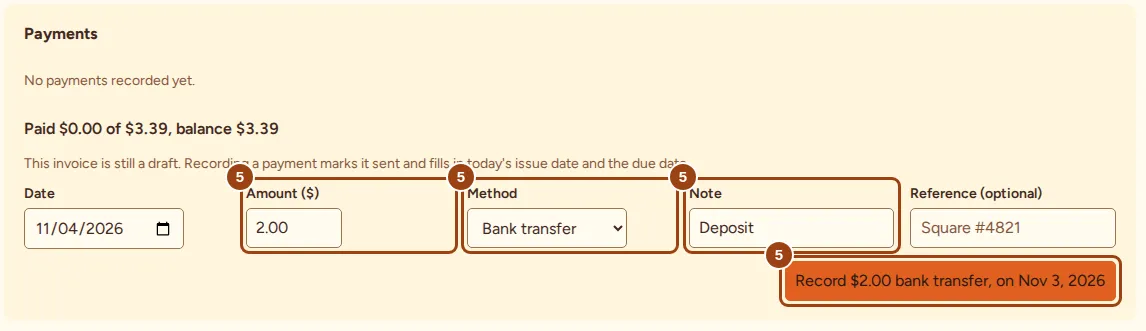
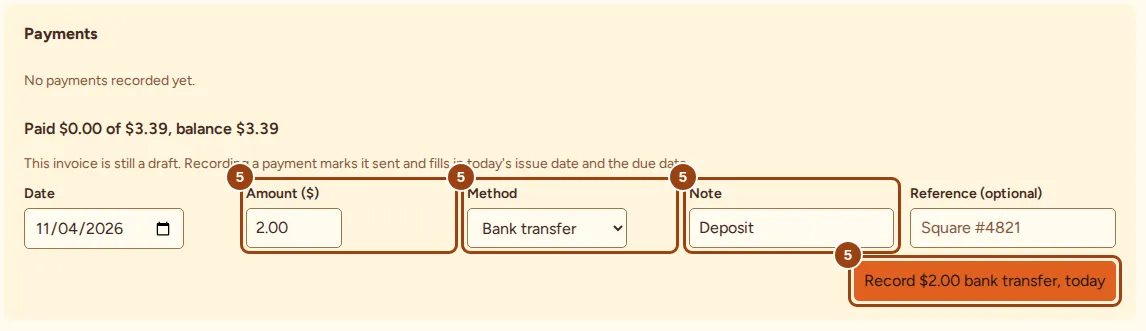
fix(guide-shots): show fixed dates in date inputs and settle captures; regenerate images

Changed region(s): [[0.6414, 0.7251, 0.9773, 0.9366]]

diff --git a/scripts/lib/guide-captures.ts b/scripts/lib/guide-captures.ts
@@ -208,15 +208,9 @@ async function invoiceTopic(s: Shooter, env: Env): Promise<void> {
   await create.click();
   const save = page.getByRole("button", { name: "Save", exact: true });
   await save.waitFor();
-  // Dates default to the day you run the script; show fixed ones.
-  await page.getByLabel("Issue date").fill("2026-11-04");
-  await page.getByLabel("Due date").fill("2026-12-04");
   await s.shot({ key: "inv-draft", targets: [{ loc: fieldOf(page.getByLabel("Issue date")), n: 3 }, { loc: fieldOf(page.getByLabel("Due date")), n: 3 }, { loc: save, n: 3 }], region: [page.getByRole("heading", { name: /^Invoice / }), save] });
-  await save.click();
-  await page.getByText(/saved/i).first().waitFor({ timeout: 10_000 }).catch(() => {});
   const sendBtns = [page.getByRole("button", { name: "Mark sent" }), page.getByRole("button", { name: "Email to client" }), page.getByRole("button", { name: "Print", exact: true })];
   await s.shot({ key: "inv-send", targets: sendBtns.map((loc) => ({ loc, n: 4 })), region: sendBtns });
-  await page.getByLabel("Date", { exact: true }).fill("2026-11-04");
   await page.getByLabel("Amount ($)").fill("2.00");
   await page.getByLabel("Method").selectOption({ label: "Bank transfer" });
   await page.getByLabel("Note", { exact: true }).fill("Deposit");
@@ -316,7 +310,7 @@ async function storefrontTopic(s: Shooter, env: Env): Promise<void> {
   await s.shot({ key: "shop-hero", targets: [{ loc: fieldOf(alt), n: 5 }], region: [card.getByText("Hero image", { exact: true }).first(), card.getByRole("button", { name: "Remove hero image" })] });
   const accent = card.getByLabel("Accent color", { exact: true });
   await accent.fill("#0f746c");
-  await s.shot({ key: "shop-accent", targets: [{ loc: fieldOf(accent), n: 6 }], region: [card.getByText("Accent color", { exact: true }).first(), card.getByLabel("Accent color preview")] });
+  await s.shot({ key: "shop-accent", targets: [{ loc: fieldOf(accent), n: 6 }], region: [card.getByText("Accent color", { exact: true }).first(), card.getByLabel("Accent color preview"), card.getByText(/^Both variants pass/)] });
   await page.getByRole("button", { name: "Save changes" }).click();
   await page.getByText(/saved/i).first().waitFor({ timeout: 10_000 }).catch(() => {});
   const pub = await env.browser.newContext({ viewport: { width: 1440, height: 1500 }, reducedMotion: "reduce", colorScheme: "light" });

diff --git a/scripts/lib/guide-shooter.ts b/scripts/lib/guide-shooter.ts
@@ -42,6 +42,18 @@ export async function freezeDates(page: Page): Promise<void> {
     // A node already rewritten (and not changed by the app since) keeps its fixed text: running twice must not shift it again.
     const w = window as unknown as { __guideFrozen?: WeakMap<Text, string> };
     const done = (w.__guideFrozen ??= new WeakMap());
+    // Date inputs show a fixed day the same way. Only the displayed value changes (no input event), so the app still
+    // believes it is the real day: "Record $2.00 bank transfer, today" stays true.
+    const inputs = (w as unknown as { __guideInputs?: WeakMap<HTMLInputElement, string> });
+    const seen = (inputs.__guideInputs ??= new WeakMap());
+    for (const el of Array.from(document.querySelectorAll<HTMLInputElement>('input[type="date"]'))) {
+      if (!el.value || seen.get(el) === el.value) continue;
+      const [y, m, d] = el.value.split("-").map(Number);
+      const diffDays = Math.round((realToday - Date.UTC(y!, m! - 1, d!)) / 86_400_000);
+      const f = new Date(FIXED_TODAY - diffDays * 86_400_000);
+      el.value = `${f.getUTCFullYear()}-${String(f.getUTCMonth() + 1).padStart(2, "0")}-${String(f.getUTCDate()).padStart(2, "0")}`;
+      seen.set(el, el.value);
+    }
     const walker = document.createTreeWalker(document.body, NodeFilter.SHOW_TEXT);
     const nodes: Text[] = [];
     while (walker.nextNode()) nodes.push(walker.currentNode as Text);
